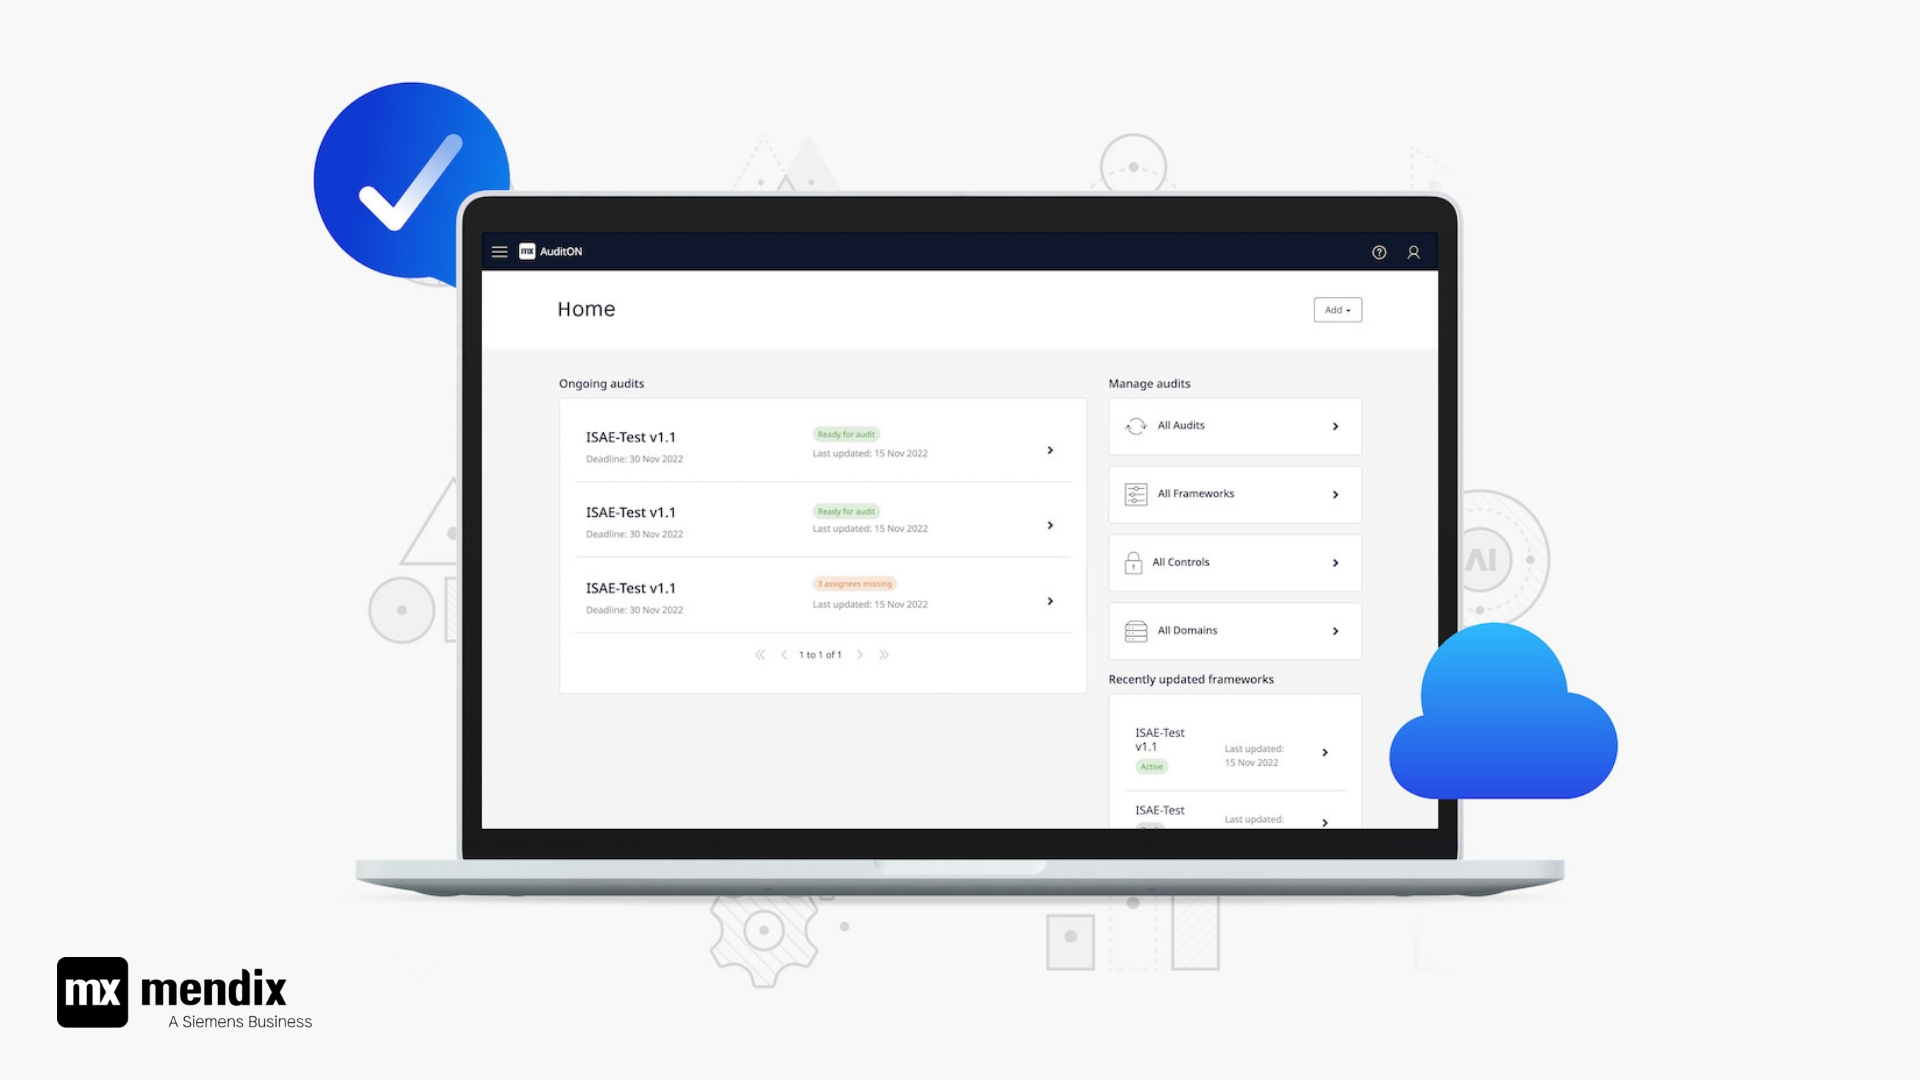
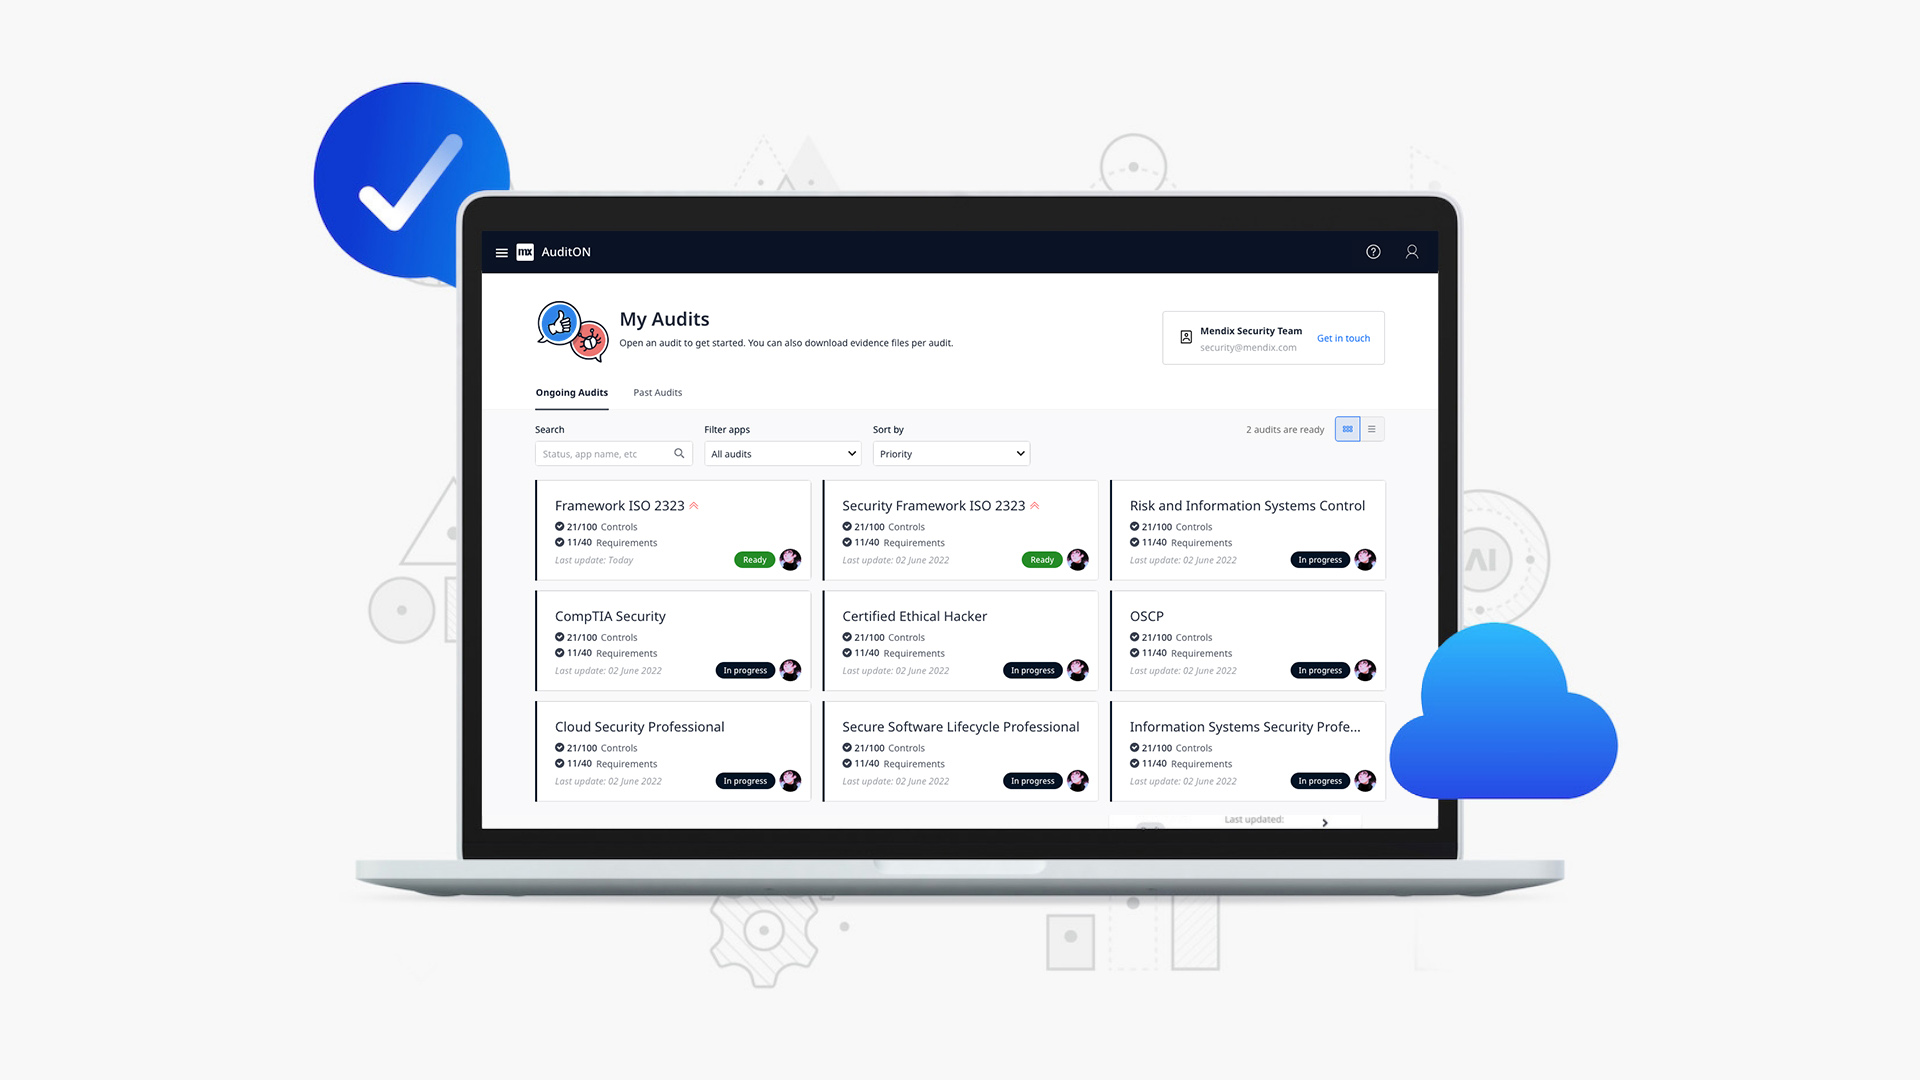
updated MX page + homepage + css

diff --git a/css/styles.css b/css/styles.css
@@ -194,8 +194,7 @@ h2 {
 }
 
 h3 {
-    font-weight: 900;
-    font-size: 1.2em;
+    font-weight: 600;
     color: #fff;
 }
 
@@ -1275,12 +1274,12 @@ a:hover {
     left: 0;
     width: 100%;
     height: 100%;
-    background-color: rgba(25, 25, 25, .5);
+    background-color: rgba(25, 25, 25, .2);
     opacity: 0;
     top: 0;
-    -webkit-transition: all .6s ease-in-out;
-    -o-transition: all .6s ease-in-out;
-    transition: all .6s ease-in-out;
+    -webkit-transition: all .2s ease-in-out;
+    -o-transition: all .2s ease-in-out;
+    transition: all .2s ease-in-out;
 }
 
 
@@ -1487,10 +1486,12 @@ a:hover {
 .item-img-mendix {
     height: 600px;
     width: 100%;
-    background: url('../img/mendix/banner_top.jpg') no-repeat center center;
+    background: url('../img/mendix/banner_audits.jpg') no-repeat center center;
     -webkit-background-size: cover;
     background-size: cover;
+    transform-origin: center;
 }
+
 
 .item-img-mendix2 {
     height: 600px;
@@ -1612,7 +1613,7 @@ a:hover {
 .item-text p {
     color: #9099A4;
     margin-bottom: 15px;
-    font-weight: 900;
+    font-weight: 600;
     font-size: 1em;
 }
 
@@ -1635,14 +1636,20 @@ a:hover {
 
 
 /*This keeps the aspect ratio fixed*/
-.grid_responsive{ 
+.grid_responsive { 
       height: 100%;
+      transition: 0.3s;
       overflow: visible; /*was hidden*/
       border-radius: 10px;
       position: relative;
       padding-top: 56.25%;
-    }
-
+      transform-origin: bottom right 60px;
+}
+.grid_responsive:hover {
+    transform-origin: bottom right 60px;
+    width: 102%;
+    transition: 0.3s;
+}
 
 
 /* Img responsiveness for homepage: Added by Mischa */
@@ -1706,9 +1713,14 @@ a:hover {
 }
 
 .selectedprojects {
-    font-weight: 900;
     font-size: 1em;
+    color: #9099A4;
+    font-weight: 600;
 }
+.selectedprojects:hover {
+    color: #9099A4;
+}
+
 
 .grid-nav ul {
     margin: 0;
@@ -1733,11 +1745,6 @@ a:hover {
     margin: 0;
 }
 
-.grid-nav li:focus,
-.grid-nav li:hover {
-    color: #ec0a45;
-}
-
 .grid-nav li:before {
     position: absolute;
     content: '';
@@ -1757,7 +1764,7 @@ a:hover {
 
 
 .grid-nav li.active {
-    color: #fff;
+    /*color: #fff;*/
     background-color: transparent;
     opacity: 1;
 }

diff --git a/mendix_old.html b/mendix_old.html
@@ -129,8 +129,9 @@
                 <img class ="img_full"src="img/mendix/interview notes.jpg" alt="">
 
                 <h2 class="text-center mb-2">The Final Product</h2>
+                <img class ="img_full"src="img/mendix/audits.png" alt="">
+                <img class ="img_full"src="img/mendix/sidebar.png" alt="">
                 <img class ="img_full"src="img/mendix/1.jpg" alt="">
-                <img class ="img_full"src="img/mendix/audits-mockup.jpg" alt="">
                 <img class ="img_full"src="img/mendix/3.jpg" alt="">
                
             </div>
